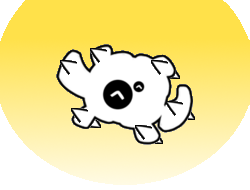
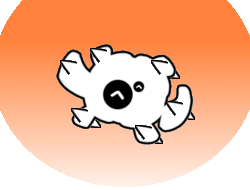
Fixed improperly cropped card art

diff --git a/TheM10Robot/src/main/java/M10Robot/cards/BalanceCurrents.java b/TheM10Robot/src/main/java/M10Robot/cards/BalanceCurrents.java
@@ -16,7 +16,7 @@ public class BalanceCurrents extends AbstractDynamicCard {
     // TEXT DECLARATION
 
     public static final String ID = M10RobotMod.makeID(BalanceCurrents.class.getSimpleName());
-    public static final String IMG = makeCardPath("BalanceCurrents2.png");
+    public static final String IMG = makeCardPath("BalanceCurrents.png");
 
     // /TEXT DECLARATION/
 

diff --git a/TheM10Robot/src/main/java/M10Robot/cards/SpikyPlating.java b/TheM10Robot/src/main/java/M10Robot/cards/SpikyPlating.java
@@ -18,7 +18,7 @@ public class SpikyPlating extends AbstractDynamicCard {
     // TEXT DECLARATION
 
     public static final String ID = M10RobotMod.makeID(SpikyPlating.class.getSimpleName());
-    public static final String IMG = makeCardPath("SpikyPlating2.png");
+    public static final String IMG = makeCardPath("SpikyPlating.png");
 
     // /TEXT DECLARATION/
 
